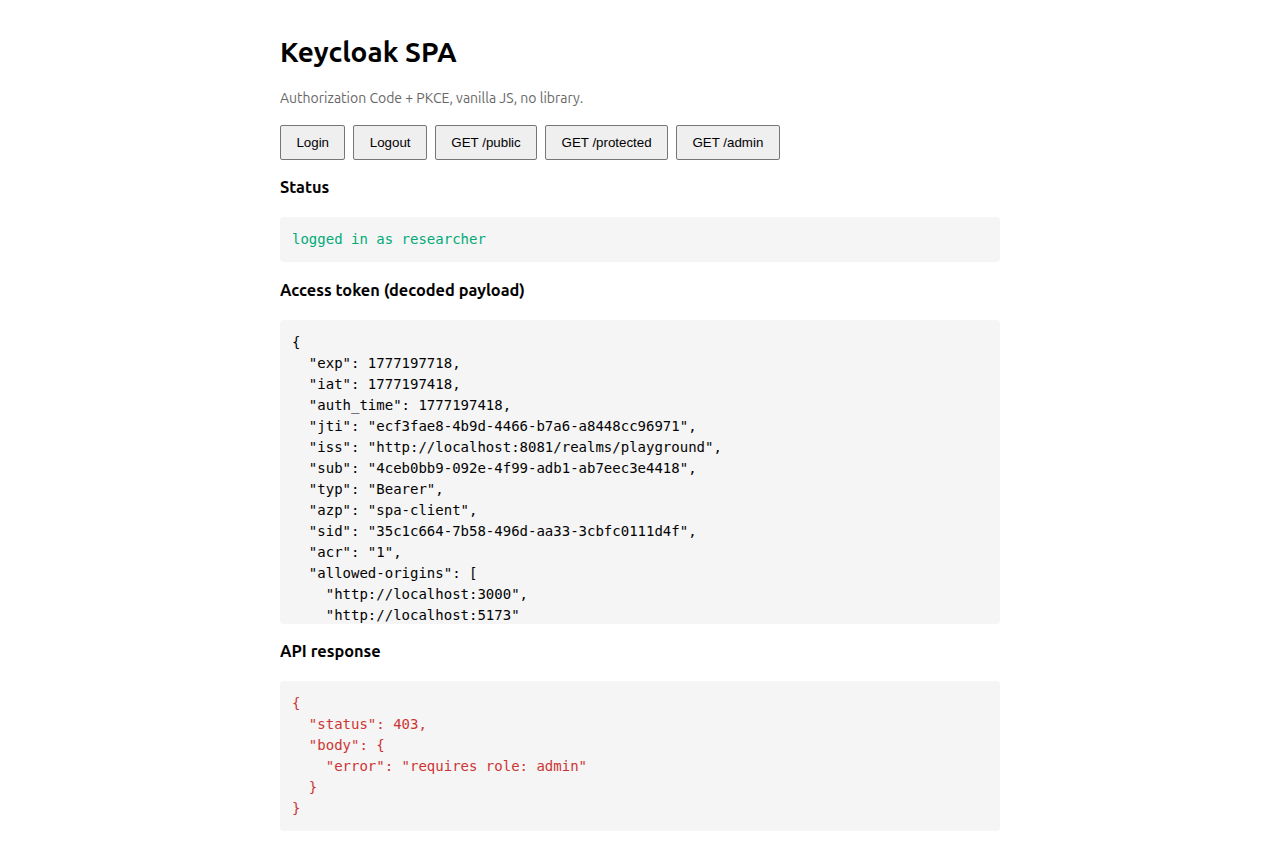
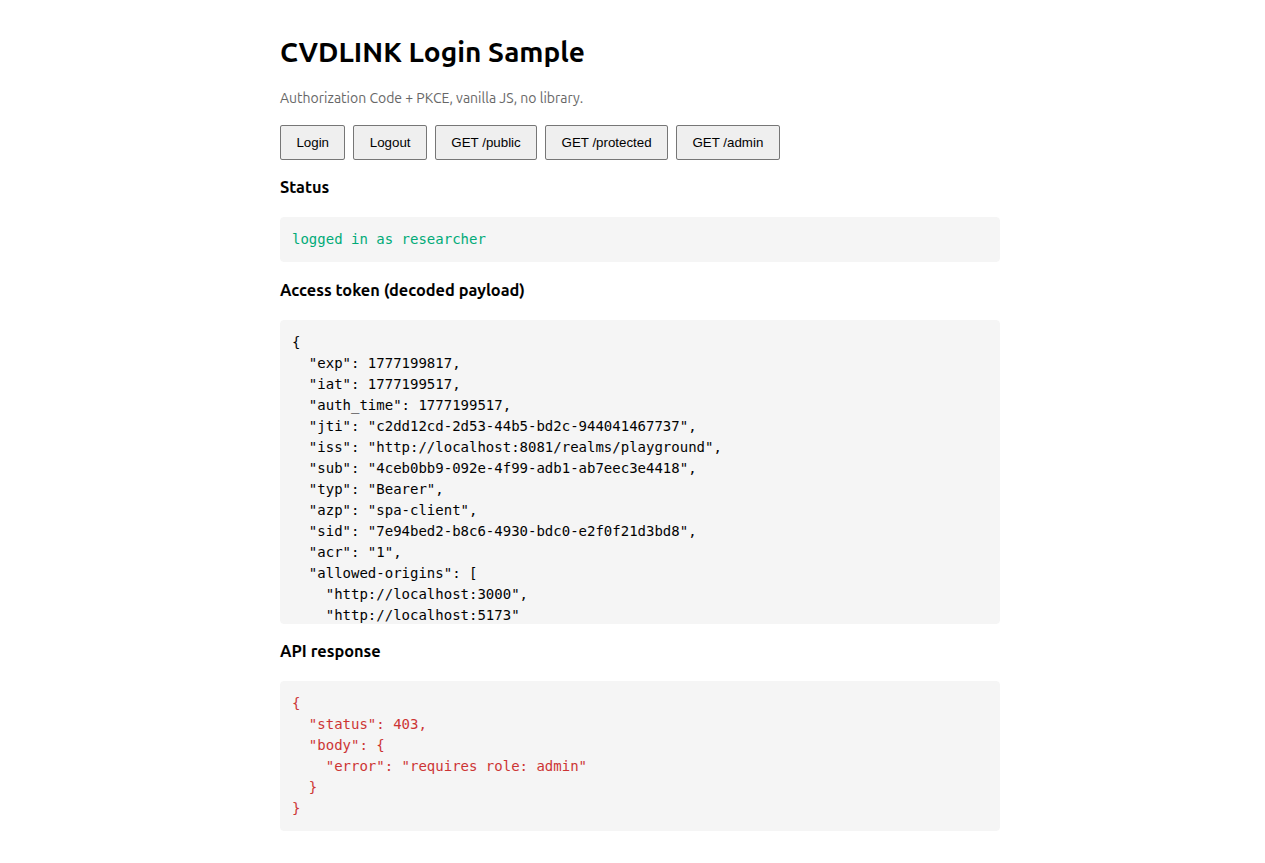
Rename SPA to CVDLINK Login Sample, restructure README, capitalize brand
- Rename examples/spa -> examples/cvdlink-login-sample (history preserved
  via git mv); update sample title/h1 to "CVDLINK Login Sample".
- Capitalize "CVDLINK" in user-facing brand text (README, sample HTML/README,
  node-api README, docs/03-oidc-flow.md prose). File paths, theme directory,
  loginTheme value, CSS URLs, and asset filenames remain lowercase.
- README: add a Table of contents, rename "What's inside" -> "Contents",
  expand the Custom login theme section into a per-layer table explaining
  what was changed and why (theme.properties, custom.css technique,
  docker-compose mount choice, loginTheme realm setting).
- docs/03-oidc-flow.md: drop the "~90% of real-world Keycloak deployments"
  marketing claim; update example folder references and walkthrough captions.
- Re-capture five SPA-side screenshots with the new heading.

diff --git a/examples/cvdlink-login-sample/index.html b/examples/cvdlink-login-sample/index.html
@@ -2,7 +2,7 @@
 <html lang="en">
   <head>
     <meta charset="utf-8" />
-    <title>Keycloak SPA — Auth Code + PKCE</title>
+    <title>CVDLINK Login Sample — Auth Code + PKCE</title>
     <meta name="viewport" content="width=device-width, initial-scale=1" />
     <style>
       body { font: 14px/1.5 system-ui, sans-serif; max-width: 720px; margin: 2rem auto; padding: 0 1rem; }
@@ -16,7 +16,7 @@
     </style>
   </head>
   <body>
-    <h1>Keycloak SPA</h1>
+    <h1>CVDLINK Login Sample</h1>
     <p class="muted">Authorization Code + PKCE, vanilla JS, no library.</p>
 
     <div class="row">

diff --git a/README.md b/README.md
@@ -1,14 +1,26 @@
 # keyclock_playground
 
-A self-contained Keycloak playground: spin up Keycloak with one command, then walk through OIDC + JWT auth end-to-end with working SPA and API examples.
+A self-contained Keycloak playground: spin up Keycloak with one command, then walk through OIDC + JWT auth end-to-end with working browser and API examples.
 
-## What's inside
+## Table of contents
+
+- [Contents](#contents)
+- [Quickstart](#quickstart)
+- [Screenshots](#screenshots)
+- [Repo layout](#repo-layout)
+- [Auth flows covered](#auth-flows-covered)
+- [Default credentials](#default-credentials)
+- [Custom login theme (CVDLINK)](#custom-login-theme-cvdlink)
+- [Documentation](#documentation)
+- [License](#license)
+
+## Contents
 
 - **Keycloak 26 + Postgres** via `docker-compose`
 - **Auto-imported realm** ([`realm-export.json`](realm-export.json)) with clients, roles, and demo users
-- **Custom login theme** ([`themes/cvdlink/`](themes/cvdlink/login/)) replacing the realm-name banner with the cvdlink logo
+- **Custom login theme** ([`themes/cvdlink/`](themes/cvdlink/login/)) replacing the realm-name banner with the CVDLINK logo
 - **Two runnable examples** that talk to it:
-  - [`examples/spa`](examples/spa/) — vanilla JS Authorization Code + PKCE flow
+  - [`examples/cvdlink-login-sample`](examples/cvdlink-login-sample/) — vanilla JS Authorization Code + PKCE flow
   - [`examples/node-api`](examples/node-api/) — Express resource server validating JWTs via JWKS
 - **Step-by-step docs** with Mermaid sequence diagrams and captured screenshots
 
@@ -25,8 +37,8 @@ docker compose up -d
 cd examples/node-api && cp .env.example .env && npm install && npm start
 #    listening on :3001
 
-# 4. in another terminal, serve the SPA
-cd examples/spa && python3 -m http.server 5173
+# 4. in another terminal, serve the CVDLINK Login Sample
+cd examples/cvdlink-login-sample && python3 -m http.server 5173
 #    open http://localhost:5173 → click Login → researcher / researcher123
 ```
 
@@ -38,8 +50,8 @@ The Authorization Code + PKCE flow, captured against this stack. The full walkth
 
 | Step | Screenshot |
 |------|------------|
-| Keycloak login page (cvdlink theme) | ![Keycloak login form](docs/images/02-keycloak-login.png) |
-| SPA after login: decoded access token | ![Decoded JWT](docs/images/03-spa-post-login-claims.png) |
+| Keycloak login page (CVDLINK theme) | ![Keycloak login form](docs/images/02-keycloak-login.png) |
+| Sample app after login: decoded access token | ![Decoded JWT](docs/images/03-spa-post-login-claims.png) |
 | `GET /protected` as `researcher` → 200 | ![/protected 200](docs/images/04-spa-protected-200.png) |
 | `GET /admin` as `researcher` → 403 | ![/admin 403](docs/images/05-spa-admin-403-researcher.png) |
 | `GET /admin` as `admin` → 200 | ![/admin 200](docs/images/06-spa-admin-200-admin.png) |
@@ -48,19 +60,19 @@ The Authorization Code + PKCE flow, captured against this stack. The full walkth
 
 ```
 .
-├── docker-compose.yml       # Keycloak 26 + Postgres
-├── realm-export.json        # auto-imported on first boot (users, roles, clients, loginTheme)
-├── resource/                # source assets (cvdlink_logo.png)
+├── docker-compose.yml               # Keycloak 26 + Postgres
+├── realm-export.json                # auto-imported on first boot (users, roles, clients, loginTheme)
+├── resource/                        # source assets (cvdlink_logo.png)
 ├── themes/
-│   └── cvdlink/login/       # custom Keycloak login theme (mounted into the container)
+│   └── cvdlink/login/               # custom Keycloak login theme (mounted into the container)
 ├── docs/
-│   ├── 01-installation.md   # bring up the stack, first admin login
-│   ├── 02-realm-setup.md    # manual click-by-click realm config
-│   ├── 03-oidc-flow.md      # Auth Code+PKCE, Client Credentials, JWT internals
-│   └── images/              # screenshots referenced from the docs
+│   ├── 01-installation.md           # bring up the stack, first admin login
+│   ├── 02-realm-setup.md            # manual click-by-click realm config
+│   ├── 03-oidc-flow.md              # Auth Code+PKCE, Client Credentials, JWT internals
+│   └── images/                      # screenshots referenced from the docs
 └── examples/
-    ├── spa/                 # vanilla JS SPA (PKCE)
-    └── node-api/            # Express + jose JWT validation
+    ├── cvdlink-login-sample/        # vanilla JS PKCE login flow
+    └── node-api/                    # Express + jose JWT validation
 ```
 
 ## Auth flows covered
@@ -85,33 +97,47 @@ The Authorization Code + PKCE flow, captured against this stack. The full walkth
 
 > ⚠ Defaults are for local play only. Do not deploy this stack as-is.
 
-## Custom login theme (cvdlink)
+## Custom login theme (CVDLINK)
 
-The login page swaps the realm display name (default Keycloak shows the realm's `displayName` as a text banner) for the cvdlink logo. The change is contained in three places:
+Out of the box, Keycloak 26's default `keycloak.v2` login theme renders the realm's `displayName` as a text banner inside a Patternfly v5 two-column layout (form on the left, brand on the right at desktop widths). For this playground we replace that banner with the CVDLINK logo and stack the layout vertically.
 
-1. **[`themes/cvdlink/login/`](themes/cvdlink/login/)** — a custom login theme:
-   - [`theme.properties`](themes/cvdlink/login/theme.properties) — extends `keycloak.v2`, declares `styles=css/login.css css/custom.css` so both the parent's stylesheet and our override are loaded.
-   - [`resources/css/custom.css`](themes/cvdlink/login/resources/css/custom.css) — converts Patternfly v5's two-column login layout into a centered single column, then replaces the `#kc-header-wrapper` text with the logo via `background-image` + `text-indent: -9999px`.
-   - [`resources/img/cvdlink_logo.png`](themes/cvdlink/login/resources/img/cvdlink_logo.png) — copy of [`resource/cvdlink_logo.png`](resource/cvdlink_logo.png), served by Keycloak under `/resources/<version>/login/cvdlink/img/`.
-2. **[`docker-compose.yml`](docker-compose.yml)** — the keycloak service mounts only the theme dir (not the whole `themes/`, which would shadow Keycloak's built-in themes):
-   ```yaml
-   volumes:
-     - ./themes/cvdlink:/opt/keycloak/themes/cvdlink:ro
+### What was changed and why
+
+| Layer                        | Change                                                                                                       | Why                                                                                                                |
+|------------------------------|--------------------------------------------------------------------------------------------------------------|--------------------------------------------------------------------------------------------------------------------|
+| Theme directory              | New `themes/cvdlink/login/` extending `keycloak.v2`                                                           | Inherits all of Keycloak's templates and FTL logic; only the visuals are overridden.                               |
+| `theme.properties`           | `parent=keycloak.v2`, `import=common/keycloak`, `styles=css/login.css css/custom.css`                         | Keycloak's `styles` setting is replaced (not merged) by a child theme — relisting `css/login.css` keeps the parent CSS, and `custom.css` is appended last so its rules win on equal specificity. |
+| `resources/css/custom.css`   | Force `.pf-v5-c-login__container` from grid to flex-column with `max-width: 600px; margin: 0 auto`            | Stacks the brand above the form and centers everything; `!important` is used because Patternfly's grid template comes from a CSS variable that has equal specificity. |
+|                              | On `#kc-header-wrapper`: `background-image` to the logo, `background-size: contain`, `text-indent: -9999px`   | Hides the realm display-name text without removing it from the DOM (so screen readers still read the realm name) while drawing the logo in its place. |
+| `resources/img/cvdlink_logo.png` | Copy of [`resource/cvdlink_logo.png`](resource/cvdlink_logo.png) served by Keycloak's static-resource handler | Keycloak exposes theme resources at `/resources/<version>/login/cvdlink/img/...`, which is what the CSS `url('../img/...')` resolves to.   |
+| `docker-compose.yml`         | Add `./themes/cvdlink:/opt/keycloak/themes/cvdlink:ro` to the keycloak service                                | Mounts only this theme — mounting the whole `./themes/` would shadow Keycloak's built-in `base`, `keycloak`, and `keycloak.v2`, breaking other themes. |
+| `realm-export.json`          | `"loginTheme": "cvdlink"` on the realm                                                                        | Activates the custom theme at the realm level. Without this, Keycloak falls back to `keycloak.v2`. |
+
+### File map
+
+- [`themes/cvdlink/login/theme.properties`](themes/cvdlink/login/theme.properties)
+- [`themes/cvdlink/login/resources/css/custom.css`](themes/cvdlink/login/resources/css/custom.css)
+- [`themes/cvdlink/login/resources/img/cvdlink_logo.png`](themes/cvdlink/login/resources/img/cvdlink_logo.png)
+- [`docker-compose.yml`](docker-compose.yml) → `services.keycloak.volumes`
+- [`realm-export.json`](realm-export.json) → `realm.loginTheme`
+
+### Iterating on the design
+
+1. Edit `themes/cvdlink/login/resources/css/custom.css` (or drop a new logo into `resources/img/`).
+2. Restart the keycloak container — the volume is read-only and Keycloak picks up theme changes on restart:
+   ```bash
+   docker compose restart keycloak
    ```
-3. **[`realm-export.json`](realm-export.json)** — the realm activates the theme:
-   ```json
-   "loginTheme": "cvdlink"
-   ```
+3. Hard-refresh the login page (theme assets are versioned, so a normal reload usually works).
+4. If you change which theme a realm uses (`loginTheme`) **after** the realm has been imported, you must drop the postgres volume so the realm is re-imported: `docker compose down -v && docker compose up -d`.
 
-To customize further, drop a new logo into `themes/cvdlink/login/resources/img/cvdlink_logo.png` and tweak `custom.css`. Theme files are mounted read-only and Keycloak picks them up on container restart.
-
-## Documentation order
+## Documentation
 
 1. [`docs/01-installation.md`](docs/01-installation.md) — Docker, first admin login, OIDC discovery doc
 2. [`docs/02-realm-setup.md`](docs/02-realm-setup.md) — manual realm/client/user setup (skip if you used the import)
 3. [`docs/03-oidc-flow.md`](docs/03-oidc-flow.md) — auth flows + JWT structure
 4. [`examples/node-api/README.md`](examples/node-api/README.md) — resource server walkthrough
-5. [`examples/spa/README.md`](examples/spa/README.md) — SPA walkthrough
+5. [`examples/cvdlink-login-sample/README.md`](examples/cvdlink-login-sample/README.md) — CVDLINK Login Sample walkthrough
 
 ## License
 

diff --git a/docs/03-oidc-flow.md b/docs/03-oidc-flow.md
@@ -1,6 +1,6 @@
 # 3. OIDC Auth Flows
 
-Two flows cover ~90% of real-world Keycloak deployments:
+Two flows are covered:
 
 - **Authorization Code + PKCE** — for any user-facing app (SPA, mobile, native, server-rendered web).
 - **Client Credentials** — for service-to-service (no user involved).
@@ -53,21 +53,21 @@ logout:    http://localhost:8081/realms/playground/protocol/openid-connect/logou
 
 ### Working code
 
-See [`examples/spa`](../examples/spa). It's ~150 lines of vanilla JS — no library — so you can read every step.
+See [`examples/cvdlink-login-sample`](../examples/cvdlink-login-sample). It's ~150 lines of vanilla JS — no library — so you can read every step.
 
 ### Walkthrough
 
-The screenshots below were captured against the local stack (`docker compose up -d`, SPA on `:5173`, Node API on `:3001`). The realm has two demo users: `researcher`/`researcher123` with role `user`, and `admin`/`admin123` with roles `user` + `admin`.
+The screenshots below were captured against the local stack (`docker compose up -d`, sample on `:5173`, Node API on `:3001`). The realm has two demo users: `researcher`/`researcher123` with role `user`, and `admin`/`admin123` with roles `user` + `admin`.
 
-**1. SPA before login** — no token in `sessionStorage`, the API panel is empty.
+**1. Sample app before login** — no token in `sessionStorage`, the API panel is empty.
 
-![SPA pre-login](images/01-spa-pre-login.png)
+![Login sample pre-login](images/01-spa-pre-login.png)
 
-**2. Keycloak login form** — clicking *Login* redirects to the realm's `/auth` endpoint with `code_challenge` + `state` in the query string. The login page uses the custom `cvdlink` theme that swaps the realm-name banner for the cvdlink logo.
+**2. Keycloak login form** — clicking *Login* redirects to the realm's `/auth` endpoint with `code_challenge` + `state` in the query string. The login page uses the custom `cvdlink` theme that swaps the realm-name banner for the CVDLINK logo.
 
 ![Keycloak login form](images/02-keycloak-login.png)
 
-**3. Post-login: decoded access token** — after the redirect back, the SPA exchanged the code (with `code_verifier`) for tokens and decoded the JWT. Note `iss`, `azp=spa-client`, `realm_access.roles=["user"]`.
+**3. Post-login: decoded access token** — after the redirect back, the sample app exchanged the code (with `code_verifier`) for tokens and decoded the JWT. Note `iss`, `azp=spa-client`, `realm_access.roles=["user"]`.
 
 ![Decoded JWT after login](images/03-spa-post-login-claims.png)
 
@@ -238,8 +238,8 @@ GET http://localhost:8081/realms/playground/protocol/openid-connect/logout
 
 This kills the Keycloak SSO session.
 
-**Keycloak 26 requires either `id_token_hint` or `client_id`** on the logout request — passing neither returns `Missing parameters: id_token_hint`. With `id_token_hint` the user is logged out silently; with only `client_id`, Keycloak shows a "do you want to sign out?" confirmation page. The SPA example passes both, so it works in either state.
+**Keycloak 26 requires either `id_token_hint` or `client_id`** on the logout request — passing neither returns `Missing parameters: id_token_hint`. With `id_token_hint` the user is logged out silently; with only `client_id`, Keycloak shows a "do you want to sign out?" confirmation page. The CVDLINK Login Sample passes both, so it works in either state.
 
 ---
 
-**Next:** [`../examples/spa`](../examples/spa) and [`../examples/node-api`](../examples/node-api) — runnable code that implements everything above.
+**Next:** [`../examples/cvdlink-login-sample`](../examples/cvdlink-login-sample) and [`../examples/node-api`](../examples/node-api) — runnable code that implements everything above.

diff --git a/examples/node-api/README.md b/examples/node-api/README.md
@@ -39,7 +39,7 @@ curl -H "Authorization: Bearer $TOKEN" http://localhost:3001/protected
 curl -H "Authorization: Bearer $TOKEN" http://localhost:3001/admin   # 403 — service account has no admin role
 ```
 
-To hit `/admin`, get a token for the `admin` user via the SPA (Auth Code + PKCE).
+To hit `/admin`, get a token for the `admin` user via the CVDLINK Login Sample (Auth Code + PKCE).
 
 ## How it validates tokens
 

diff --git a/examples/cvdlink-login-sample/README.md b/examples/cvdlink-login-sample/README.md
@@ -1,4 +1,4 @@
-# SPA — Auth Code + PKCE
+# CVDLINK Login Sample — Auth Code + PKCE
 
 Vanilla HTML + JS demonstrating the Authorization Code + PKCE flow against Keycloak. No framework, no library — every step is in `app.js`.
 
